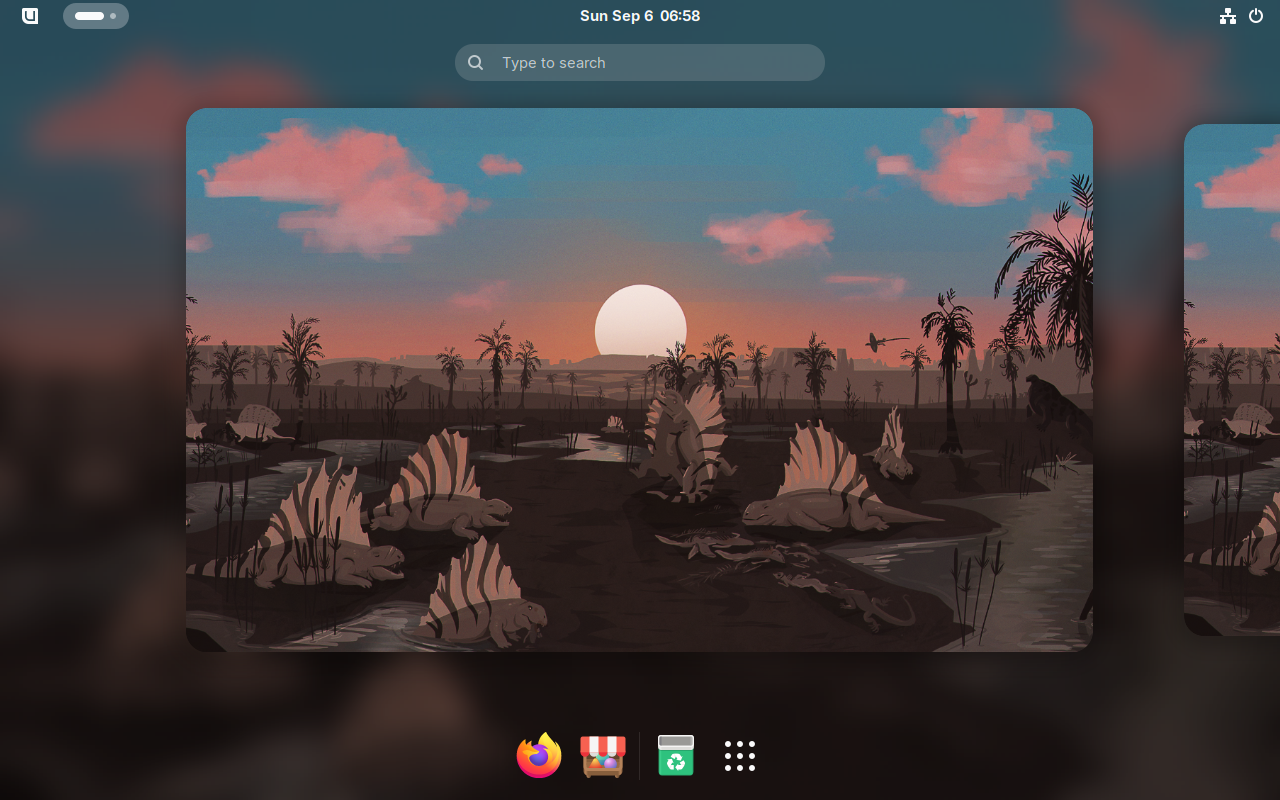
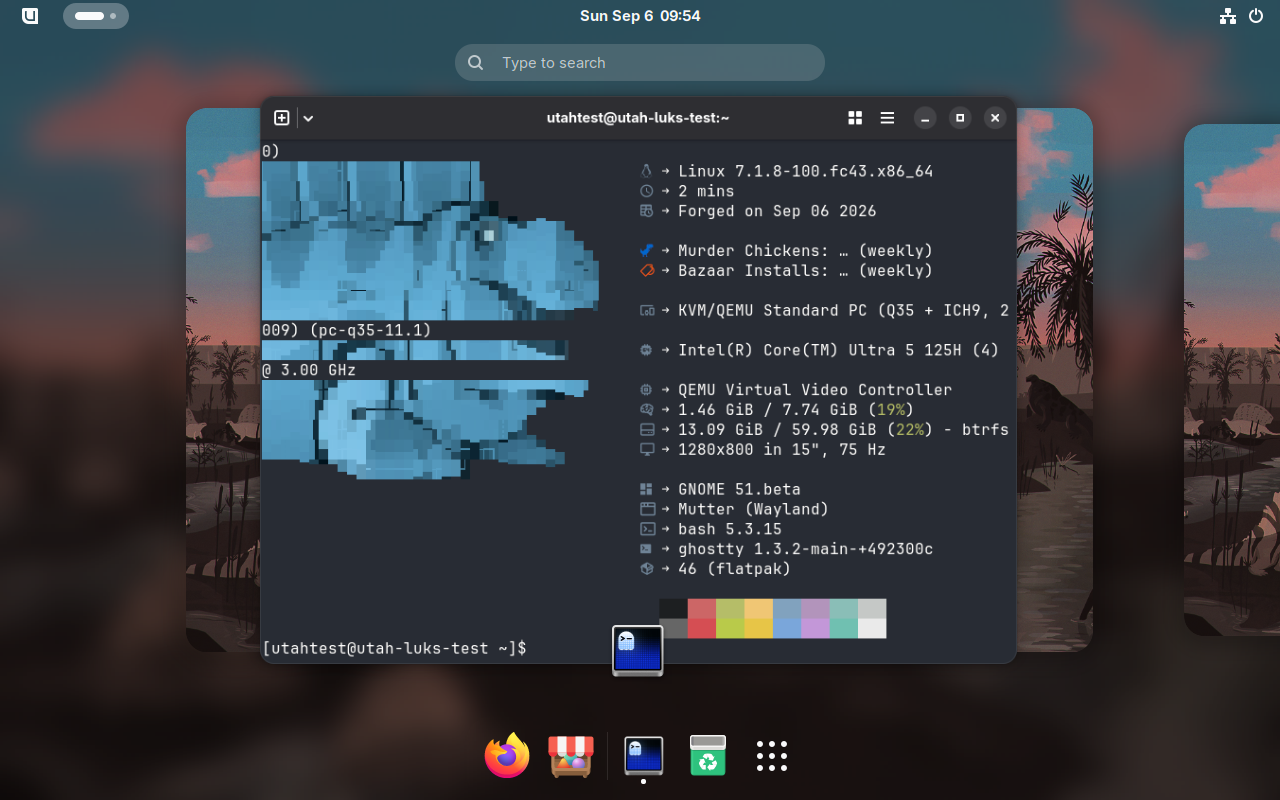
test: wait for the live VM to exit before booting the disk it wrote
The install phase powered the live VM down, slept eight seconds, and
force-quit it. The next phase then booted the disk that VM had just
written, and when the flush lost the race the installed system died
waiting for its own /boot:

  Timed out waiting for device /dev/disk/by-uuid/f377b45c-...
  Dependency failed for boot.mount - /boot.

The same disk booted perfectly in isolation, and the payload image was
byte-identical between passing and failing runs -- the corruption was
the harness's, not the image's. Phase 4 now waits for the QEMU process
to actually exit, forces it only after a minute, and refuses to continue
if it will not die, because booting a disk something may still be
writing proves nothing either way.

The fastfetch screenshot leads the verification record now, with the
terminal opened by a session autostart entry -- and it exposed one last
self-inflicted artifact: ssh_target runs a login shell, ~/.bashrc now
runs fastfetch, so the session-type query came back wearing ASCII art.
Asked non-interactively instead.

Claude-Session: https://claude.ai/code/session_015VF8ttMH6WGQHeQ9hdMSY9

diff --git a/docs/verification/README.md b/docs/verification/README.md
@@ -8,7 +8,7 @@ the check beside it passed.
 
 | | |
 | --- | --- |
-| Captured | 2026-09-06T06:58:42Z |
+| Captured | 2026-09-06T09:54:32Z |
 | Live ISO | `utah-live.iso`, 7.7G |
 | Installed image | `ghcr.io/projectbluefin/utah:testing` |
 | Root filesystem | btrfs on LUKS2, passphrase unlock |
@@ -29,6 +29,12 @@ the check beside it passed.
 
 ## Screenshots
 
+### The installed system, running
+![fastfetch](screenshots/installed-fastfetch.png)
+
+A terminal on the desktop this test built, reporting the OS, kernel and
+desktop from inside it. Everything below is how it got there.
+
 ### Live session
 ![Live session](screenshots/live-desktop.png)
 
@@ -46,8 +52,3 @@ graphical target. This is what proves the boot did not stop at a console.
 `utahtest`'s GNOME session, entered by typing the password at the
 greeter above.
 
-### A terminal on the installed system
-![fastfetch](screenshots/installed-fastfetch.png)
-
-BlueShell running fastfetch, which reports the OS, kernel and desktop from
-inside the system this test just built.
